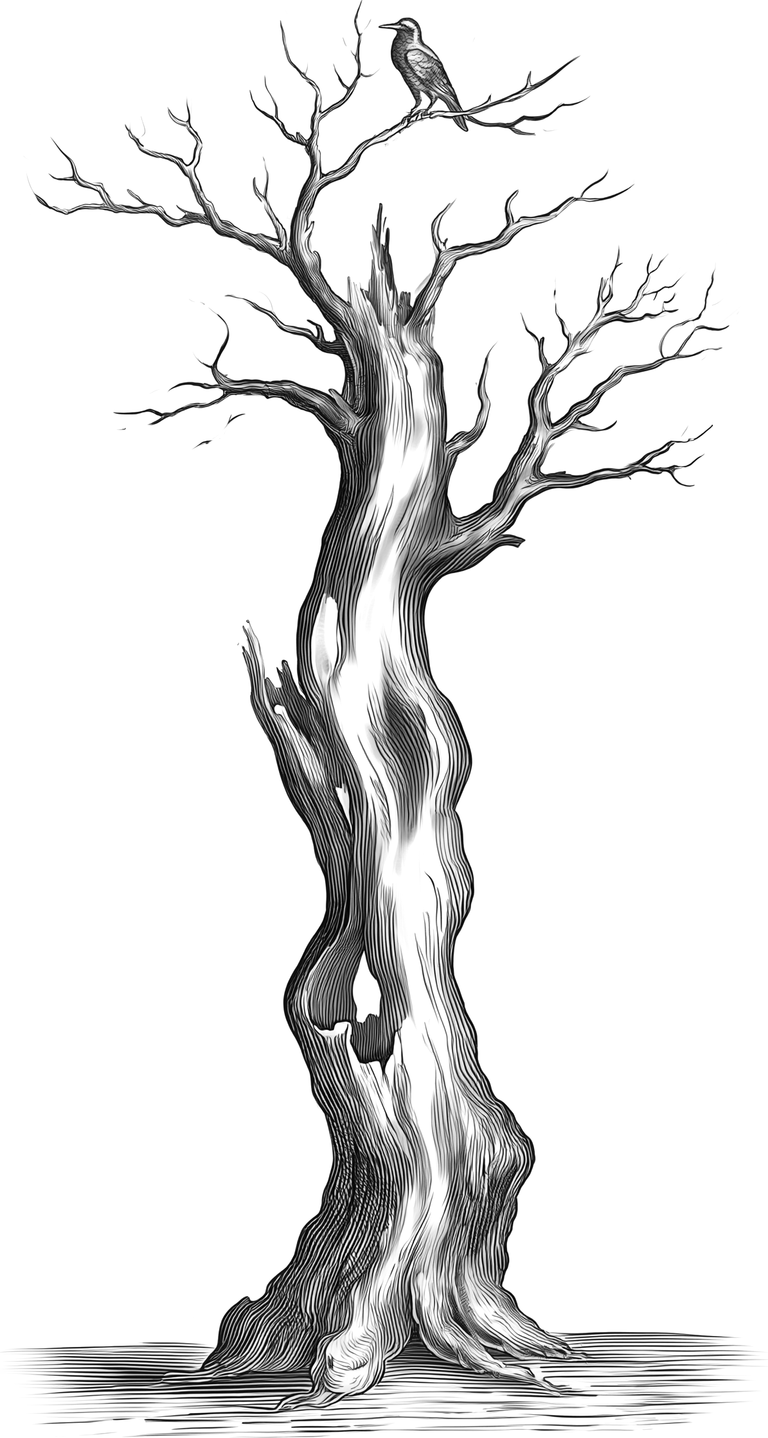
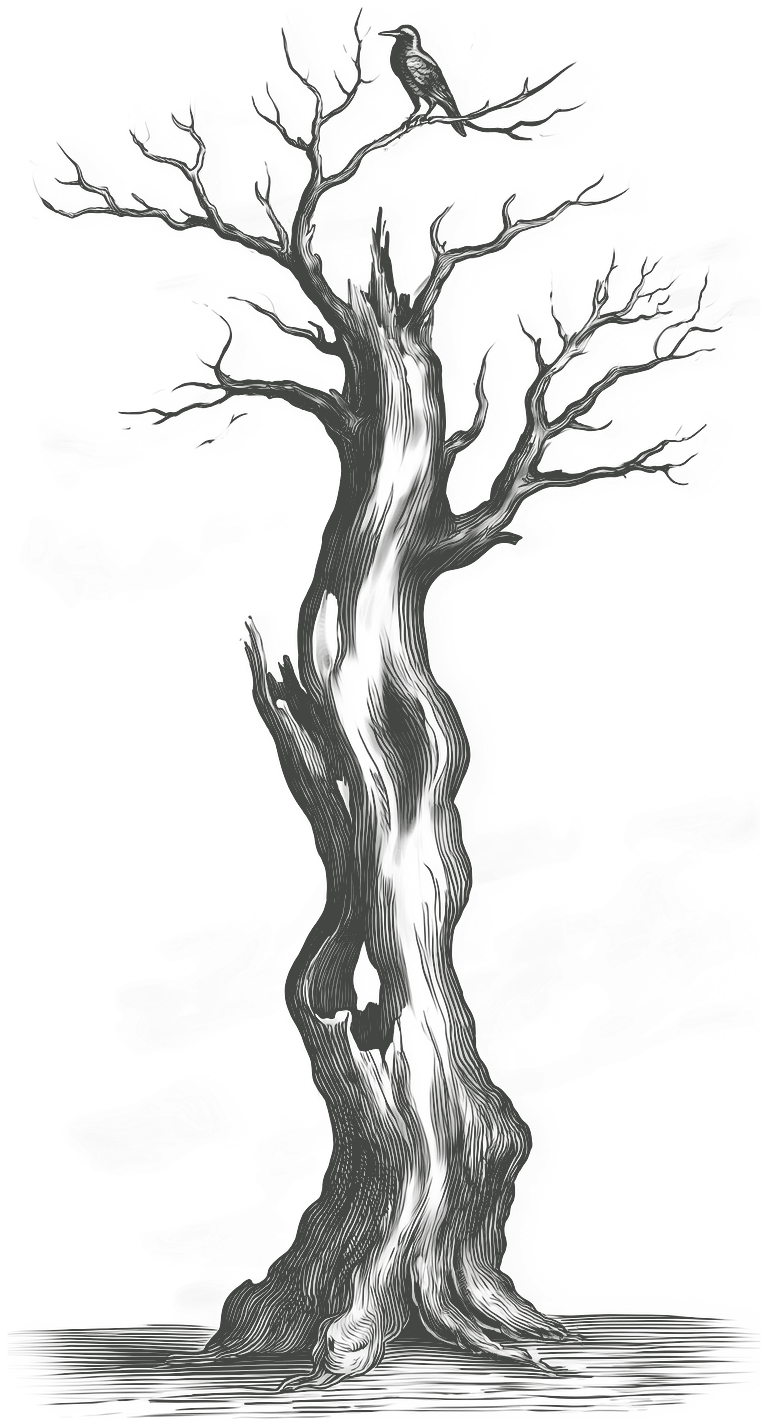
La carapace posée sur les commentaires vides, et l'encre reposée sur les deux gravures
L'onglet des commentaires d'une œuvre n'offrait qu'une ligne en italique
au haut d'un volet vide. Une carapace vide y tient désormais le milieu de
la zone défilante, en largeur comme en hauteur, l'invite dessous.

Le centrage vertical vient du flux, non d'un calcul sur la fenêtre : la
zone est déjà « flex: 1 », donc sa hauteur tient compte du formulaire
épinglé au bas du volet. Un plafond composé sur « 100dvh » aurait dû
deviner cette hauteur, et se serait trompé au premier champ ajouté.

C'est une seconde carapace, non un doublon de celle du volet biblique :
l'une est bombée et vue de face, l'autre couchée de trois quarts.

Le détourage des deux planches est refait par le script maison, qui
mesure l'encre par sa MÉDIANE là où ma première recette la supposait
noire. L'arbre au corbeau rendait 2,1 % d'encre pleine pour 21,5 % de
partiels, la signature même que la charte signale comme suspecte ; il en
rend 10,4 %, le taux de l'arbre ardent voisin.

La décomposition de l'encre, en revanche, ne convient pas à un papier
blanc pur : elle divise par l'alpha et fait exploser l'écart entre canaux
là où l'alpha est faible. L'arbre en sortait avec 12 208 teintes de
moyenne bleue, pour 936 Ko. La charte a déjà tranché ce cas à propos du
monogramme, « le détourage ne sert que l'ALPHA : la couleur, on la
repose » : l'encre mesurée sur la planche même, pondérée par le carré de
l'alpha, est neutre — rgb(68,70,67) pour l'arbre, soit la luminance 69
[…]

Changed region(s): [[0.0312, 0.0, 0.9688, 1.0], [0.375, 0.0309, 0.4062, 0.0617], [0.3438, 0.0617, 0.375, 0.0926]]

diff --git a/app/admin/illustrations/inventaire.ts b/app/admin/illustrations/inventaire.ts
@@ -146,7 +146,17 @@ export const ILLUSTRATIONS: Illustration[] = [
     lieu: { href: '/oeuvre/A0010O0002', label: 'La Cité de Dieu', repere: 'Volet de droite, après avoir cliqué un paragraphe dépourvu de référence biblique.' },
     source: 'app/oeuvre/[id]/OeuvreClient.tsx',
     traitement: { opacite: 0.42, ornement: true, largeur: 'au plus 24rem et 88 %, bornée en hauteur' },
-    note: 'Répond à l’arbre ardent du même volet, dont elle reprend la planche, la mesure et l’opacité : les deux états du volet se ressemblent au lieu de se contredire. L’arbre est ici mort et le corbeau seul — l’absence se dit par l’image avant de se dire par la phrase. Le plafond de hauteur réserve 13,5 rem au lieu de 11,5 : le bouton de proposition se pose sous l’invite et sortirait de l’écran sur une fenêtre basse.',
+    note: 'Répond à l’arbre ardent du même volet, dont elle reprend la planche, la mesure et l’opacité : les deux états du volet se ressemblent au lieu de se contredire. L’arbre est ici mort et le corbeau seul — l’absence se dit par l’image avant de se dire par la phrase. Le plafond de hauteur réserve 13,5 rem au lieu de 11,5 : le bouton de proposition se pose sous l’invite et sortirait de l’écran sur une fenêtre basse. Détourée par le script maison : encre médiane mesurée à 110, 10,4 % de pleins — le même taux que l’arbre ardent, ce qui n’est pas un hasard, les deux planches étant de la même main.',
+  },
+  {
+    chemin: '/ornements/carapace-posee.png',
+    nom: 'Carapace posée',
+    fonction: 'blanc',
+    emploi: 'Tient l’onglet des commentaires d’une œuvre tant que personne n’y a écrit.',
+    lieu: { href: '/oeuvre/A0010O0002', label: 'La Cité de Dieu', repere: 'Volet de droite, onglet « Commentaires », sur un paragraphe qui n’en porte aucun.' },
+    source: 'app/oeuvre/[id]/OngletCommentaires.tsx',
+    traitement: { opacite: 0.42, ornement: true, largeur: 'au plus 20rem et 82 %, bornée en hauteur' },
+    note: 'Seconde carapace du site, et ce n’est pas un doublon : celle-ci est bombée et vue de face, quand « Carapace vide » est couchée de trois quarts et sert le volet de la Bible. Elle se pose au MILIEU de la zone défilante, en largeur comme en hauteur ; la hauteur vient du flux, la zone étant déjà « flex: 1 », et non d’un calcul sur la fenêtre qui devrait deviner la hauteur du formulaire. Détourée par le script maison : encre médiane mesurée à 15, donc gravure au trait franc, 21,8 % de pleins.',
   },
   {
     chemin: '/ornements/ruines-fumantes.png',

diff --git a/app/oeuvre/[id]/OngletCommentaires.tsx b/app/oeuvre/[id]/OngletCommentaires.tsx
@@ -353,7 +353,24 @@ export default function OngletCommentaires({ segActif, estAdmin }: { segActif: n
           reste épinglé au bas du volet. */}
       <div style={{ flex: 1, minHeight: 0, overflowY: 'auto', paddingTop: '2px' }}>
         {loading && <p style={{ fontSize: '0.6875rem', color: 'var(--cs-texte-doux)', fontStyle: 'italic' }}>Chargement…</p>}
-        {!loading && commentaires.length === 0 && <p style={{ fontSize: '0.6875rem', color: 'var(--cs-texte-doux)', fontStyle: 'italic', marginBottom: '12px' }}>Aucun commentaire pour ce passage.</p>}
+        {!loading && commentaires.length === 0 && (
+          <div style={{ height: '100%', display: 'flex', flexDirection: 'column', alignItems: 'center', justifyContent: 'center', gap: '12px', padding: '8px 0' }}>
+            {/* La carapace vide tient le volet tant que personne n'a parlé, et elle se pose au
+                MILIEU de la zone défilante, en largeur comme en hauteur. Le centrage vertical
+                vient du « height: 100 % » de cette enveloppe : la zone est déjà « flex: 1 », donc
+                sa hauteur tient compte du formulaire épinglé au bas du volet sans qu'on ait à la
+                calculer. Un plafond composé sur la fenêtre, lui, devrait deviner cette hauteur.
+
+                ⛔ Aucune LARGEUR ni HAUTEUR posée sur la gravure, deux MAXIMA seulement (charte,
+                « Une illustration se borne par deux maxima, jamais par une largeur posée »). Le
+                plafond réserve 3,5 rem à l'invite qui se pose dessous, et « flexShrink: 0 » interdit
+                à la colonne de comprimer la planche : une hauteur imposée à une largeur déjà
+                arrêtée écraserait le dessin au lieu de le recalculer. */}
+            <img className="cs-ornement" src="/ornements/carapace-posee.png" alt="" aria-hidden="true"
+              style={{ maxWidth: 'min(20rem, 82%)', maxHeight: 'calc(100% - 3.5rem)', flexShrink: 0, opacity: 0.42 }} />
+            <p style={{ fontSize: '0.6875rem', color: 'var(--cs-texte-doux)', fontStyle: 'italic', textAlign: 'center', margin: 0 }}>Aucun commentaire pour ce passage.</p>
+          </div>
+        )}
         {principaux.map(c => (
           <div key={c.id}>
             {renderCommentaire(c, false)}
